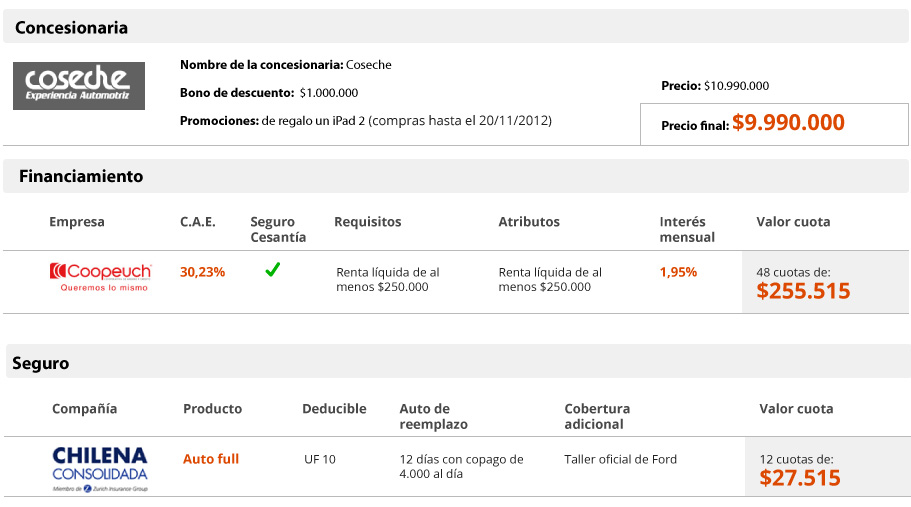
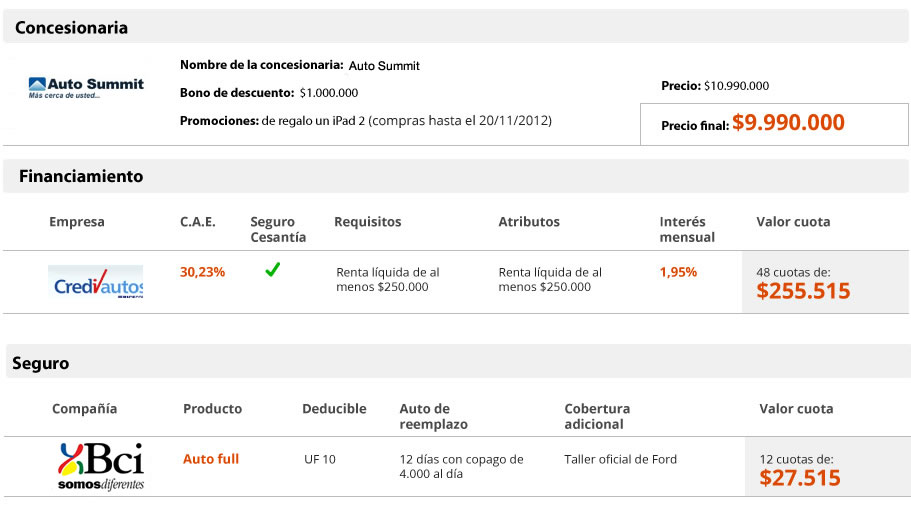
Cambios en cotizaciones

diff --git a/search-res1.html b/search-res1.html
@@ -140,8 +140,8 @@
           </div>
         </div>
         <div class="span4">
-          <h4>Ford Focus S 2013</h4>
-          <a href="#car-modal" data-toggle="modal"><img src="images/autos/ford_focus_a_t2.jpg" alt=""></a>
+          <h4>Ford Focus Hatchback SEL</h4>
+          <a href="#car-modal" data-toggle="modal"><img src="images/autos/ford_focus_hb_t2.jpg" alt=""></a>
           <div class="social-media">
             <img src="images/sm.png" alt="">
           </div>
@@ -178,21 +178,21 @@
         <a href="compare.html" class="btn btn-warning btn-small pull-right">Comparar</a>
         <h4 class="title">Mi selección</h4>
         <ul id="selected-items">
+        	<li class="selected-item">
+            <h4>Ford Focus S 2013</h4>
+            <div class="item-details clearfix">
+              <a href="#" class="close pull-right">x</a>
+              <a href="#" class="pull-left"><img src="images/autos/ford_focus_t1.jpg" alt=""></a>
+              <span class="price">$ 19.025<sup><a href="#" rel="tooltip" data-placement="top" data-original-title="Precio de referencia">*</a></sup></span>
+              <a href="offer.html" class="btn btn-danger btn-small w-arrow">COTIZAR <i class="icon-play"></i></a>
+            </div>
+          </li>
           <li class="selected-item">
             <h4>Chevrolet Sonic 2013</h4>
             <div class="item-details clearfix">
               <a href="#" class="close pull-right">x</a>
               <a href="#" class="pull-left"><img src="images/autos/cv_sonic_t.jpg" alt=""></a>
               <span class="price">$ 20.600<sup><a href="#" rel="tooltip" data-placement="top" data-original-title="Precio de referencia">*</a></sup></span>
-              <a href="offer.html" class="btn btn-danger btn-small w-arrow">COTIZAR <i class="icon-play"></i></a>
-            </div>
-          </li>
-          <li class="selected-item">
-            <h4>Ford Focus S 2013</h4>
-            <div class="item-details clearfix">
-              <a href="#" class="close pull-right">x</a>
-              <a href="#" class="pull-left"><img src="images/autos/ford_focus_t1.jpg" alt=""></a>
-              <span class="price">$ 19.025<sup><a href="#" rel="tooltip" data-placement="top" data-original-title="Precio de referencia">*</a></sup></span>
               <a href="offer.html" class="btn btn-danger btn-small w-arrow">COTIZAR <i class="icon-play"></i></a>
             </div>
           </li>

diff --git a/offer-reg-conf.html b/offer-reg-conf.html
@@ -77,9 +77,9 @@
           	<p>A continuación arma tu paquete o escoge la consecionaria, la financiera y/o la aseguradora que prefieras.</p>
           	<p><b>Muchas Gracias por confiar en ofertautomotriz.com</b></p>
           </div>
-          <img src="images/autos/cv_sonic_t1.jpg" alt="">
+          <img src="images/autos/ford_focus_hb_t.jpg" alt="">
           <div class="product-desc">
-            <h4 class="heading">Chevrolet Sonic 2013 1.6 HB LT AT</h4>
+            <h4 class="heading">Ford Focus Hatchback SEL</h4>
             <p>Su potente y eficiente motorización de 1.6 litros 16V y 115 CV proporciona una excelente conducción, tanto en ciudad como en ruta, para que te muevas con total libertad.</p>
             <p class="price">$20.600<sup><a href="#" rel="tooltip" data-placement="top" data-original-title="Precio de referencia">*</a></sup></p>
           </div>
@@ -100,7 +100,7 @@
                 <td><input type="radio" name="offer-car" value="" id=""></td>
                 <td><img src="images/brands/valenzuela_delarze.jpg" alt=""></td>
                 <td>
-                  <p><b>Nombre comercial:</b> Coseche</p>
+                  <p><b>Nombre comercial:</b> Valenzuela & Delarze</p>
                   <p><b>Bono de descuento:</b> $1.000.000</p>
                   <p><b>Promociones:</b> de regalo un iPad2 (compras hasta el 20/11/2012)</p>
                 </td>
@@ -114,7 +114,7 @@
                 <td><input type="radio" name="offer-car" value="" id=""></td>
                 <td><img src="images/brands/summit.jpg" alt=""></td>
                 <td>
-                  <p><b>Nombre comercial:</b> Coseche</p>
+                  <p><b>Nombre comercial:</b> Summit</p>
                   <p><b>Bono de descuento:</b> $1.000.000</p>
                   <p><b>Promociones:</b> de regalo un iPad2 (compras hasta el 20/11/2012)</p>
                 </td>
@@ -128,7 +128,7 @@
                 <td><input type="radio" name="offer-car" value="" id=""></td>
                 <td><img src="images/brands/salazar.jpg" alt=""></td>
                 <td>
-                  <p><b>Nombre comercial:</b> Coseche</p>
+                  <p><b>Nombre comercial:</b> Salazar Israel</p>
                   <p><b>Bono de descuento:</b> $1.000.000</p>
                   <p><b>Promociones:</b> de regalo un iPad2 (compras hasta el 20/11/2012)</p>
                 </td>

diff --git a/mis-cotiz.html b/mis-cotiz.html
@@ -84,21 +84,21 @@
           <img src="images/temporal/cotized-row.png" alt="">
         </div>
         <div id="demo" class="collapse in">
-          <a href="offer-reg-conf-consolidated-rev.html"><img src="images/generated-offer.jpg" alt=""></a><p>&nbsp;</p>
+          <a href="offer-reg-conf-consolidated.html"><img src="images/generated-offer.jpg" alt=""></a><p>&nbsp;</p>
         </div>
         <!-- row 2 -->
         <div data-toggle="collapse" data-target="#demo2" class="item-row">
           <img src="images/temporal/cotized-row-read.png" alt="">
         </div>
         <div id="demo2" class="collapse in">
-          <a href="offer-reg-conf-consolidated-rev.html"><img src="images/generated-offer.jpg" alt=""></a><p>&nbsp;</p>
+          <a href="offer-reg-conf-consolidated.html"><img src="images/generated-offer.jpg" alt=""></a><p>&nbsp;</p>
         </div>
         <!-- row 3 -->
         <div data-toggle="collapse" data-target="#demo3" class="item-row">
           <img src="images/temporal/cotized-row-read-1.png" alt="">
         </div>
         <div id="demo3" class="collapse in">
-          <a href="offer-reg-conf-consolidated-rev.html"><img src="images/generated-offer.jpg" alt=""></a><p>&nbsp;</p>
+          <a href="offer-reg-conf-consolidated.html"><img src="images/generated-offer.jpg" alt=""></a><p>&nbsp;</p>
         </div>
         <!-- row 4 -->
         <!-- <div data-toggle="collapse" data-target="#demo" class="item-row">

diff --git a/offer-reg-conf-consolidated.html b/offer-reg-conf-consolidated.html
@@ -78,9 +78,9 @@
           	<p><b>Muchas Gracias por confiar en ofertautomotriz.com</b></p>
           </div>
           
-          <img src="images/autos/cv_sonic_t1.jpg" alt="">
+          <img src="images/autos/ford_focus_hb_t.jpg" alt="">
           <div class="product-desc">
-            <h4 class="heading">Chevrolet Sonic 2013 1.6 HB LT AT</h4>
+            <h4 class="heading">Ford Focus Hatchback SEL</h4>
             <p>Su potente y eficiente motorización de 1.6 litros 16V y 115 CV proporciona una excelente conducción, tanto en ciudad como en ruta, para que te muevas con total libertad.</p>
             <p class="price">$20.600<sup><a href="#" rel="tooltip" data-placement="top" data-original-title="Precio de referencia">*</a></sup></p>
           </div>
@@ -97,9 +97,9 @@
             </thead>
             <tbody>
               <tr>
-                <td><img src="images/brands/coseche.png" alt=""></td>
+                <td><img src="images/brands/summit.jpg" alt=""></td>
                 <td>
-                  <p><b>Nombre comercial:</b> Coseche</p>
+                  <p><b>Nombre comercial:</b> Summit</p>
                   <p><b>Bono de descuento:</b> $1.000.000</p>
                   <p><b>Promociones:</b> de regalo un iPad2 (compras hasta el 20/11/2012)</p>
                 </td>

diff --git a/compare.html b/compare.html
@@ -82,13 +82,13 @@
                 <p><a href="#">VER TODAS LAS PROMOS +</a></p>
               </th>
               <th>
-                <h6>Chevrolet Sonic 2013 1.6 HB LT AT</h6>
-                <img src="images/autos/cv_sonic_t1.jpg" alt="" class="thumb">
+                <h6>Ford Focus Hatchback SEL</h6>
+                <img src="images/autos/ford_focus_hb_t.jpg" alt="" class="thumb">
                 <a href="offer.html" class="btn btn-danger w-arrow">COTIZAR <i class="icon-play"></i></a>
               </th>
               <th>
-                <h6>Ford Focus SD 2013</h6>
-                <img src="images/autos/ford_focus_t.jpg" alt="" class="thumb">
+                <h6>Chevrolet Sonic 2013 1.6 HB LT AT</h6>
+                <img src="images/autos/cv_sonic_t1.jpg" alt="" class="thumb">
                 <a href="offer.html" class="btn btn-danger w-arrow">COTIZAR <i class="icon-play"></i></a>
               </th>
               <th>

diff --git a/offer.html b/offer.html
@@ -70,9 +70,9 @@
       </div>
       <div id="offer-form" class="form-view row-fluid">
         <section class="product span12">
-          <img src="images/autos/cv_sonic_t1.jpg" alt="">
+          <img src="images/autos/ford_focus_hb_t.jpg" alt="">
           <div class="product-desc">
-            <h4 class="heading">Chevrolet Sonic 2013 1.6 HB LT AT</h4>
+            <h4 class="heading">Ford Focus Hatchback SEL</h4>
             <p>Su potente y eficiente motorización de 1.6 litros 16V y 115 CV proporciona una excelente conducción, tanto en ciudad como en ruta, para que te muevas con total libertad. </p>
             <p class="price">$20.600<sup><a href="#" rel="tooltip" data-placement="top" data-original-title="Precio de referencia">*</a></sup></p>
           </div>
